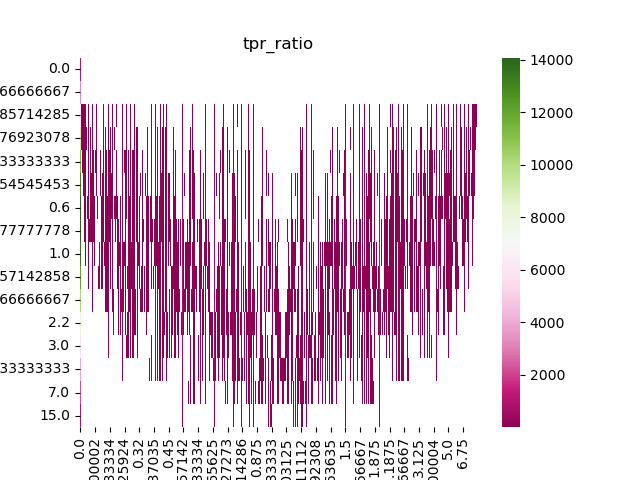
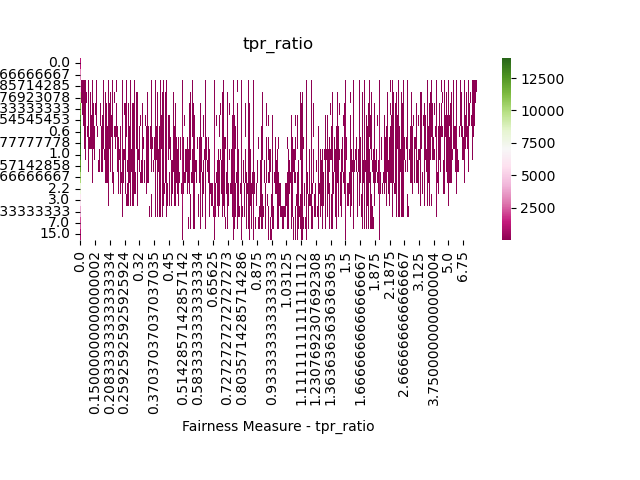
multiple plots try no 2

diff --git a/main.py b/main.py
@@ -153,6 +153,9 @@ def create_heatmap(df, fair_measure):
     df1 = df.groupby(['ir', fair_measure]).size().reset_index(name='counts')
     heatm = sns.heatmap(df1.pivot('ir', fair_measure, values='counts'), cmap="PiYG", annot=False)
     plt.title(str(fair_measure))
+    plt.xlabel(f"Fairness Measure - {fair_measure}")
+    plt.ylabel("Imbalance Ratio")
+    plt.subplots_adjust(bottom=0.50)
     #print(df1)
     #plt.show()
     fig = heatm.get_figure()
@@ -164,6 +167,8 @@ def create_histogram(df, ir_selected, fair_measure):
     df1 = df1[[fair_measure]]
     hist = df1.hist(bins=100)
     plt.title(str(fair_measure) + ' for ir = ' + str(ir_selected))
+    plt.xlabel(f"Fairness Measure - {fair_measure}")
+    plt.ylabel("Counts")
     fig = hist[0][0].get_figure()
     fig.savefig(f"plots/histogram_{fair_measure}_{ir_selected}.png")
     #plt.show()
@@ -205,7 +210,7 @@ def create_dataframe(nparray, k):
     
     # 1 TODO: Automatyzacja robienia histogramów - DONE
     # 2 TODO: Sprawdzenie kodu
-    # 3 TODO: Etykietowanie osi
+    # 3 TODO: Etykietowanie osi - DONE
     # 4 TODO: Co z tymi zerowymi wartościami?
     # 5 TODO: Więcej miar
     
@@ -244,7 +249,7 @@ if __name__ == '__main__':
     
     df = create_dataframe(X, k)
     fm_list = ['tpr_ratio', 'tpr_diff']
-    ir_selected_list = [0, 1, 2, 3, 4, 5, 6, 7, 8, 9, 10, 11, 12, 13, 14, 15, 16]
+    ir_selected_list = [1, 2.2, 3, 6, 7, 15]
     
     for fm in fm_list:
         create_heatmap(df, fm)
